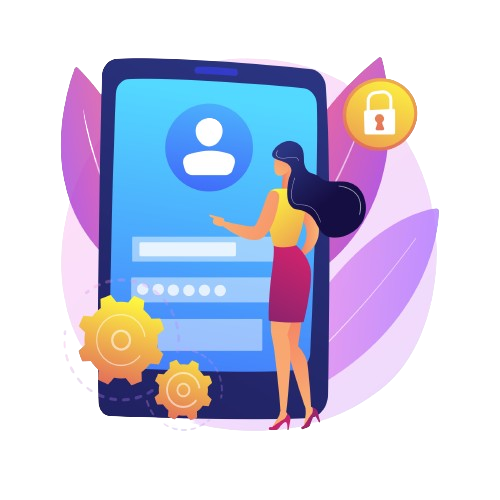
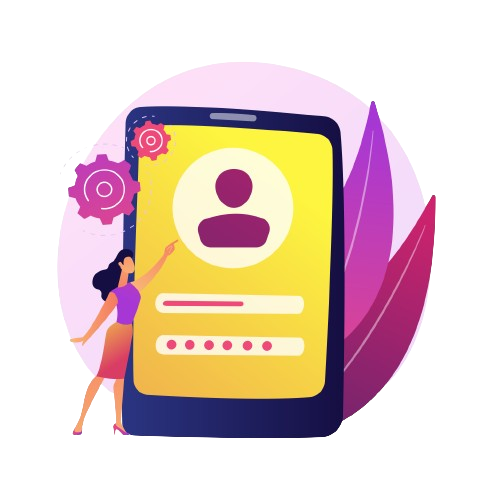
signUp_signIn_done

diff --git a/signUp.html b/signUp.html
@@ -1,22 +1,28 @@
 <!DOCTYPE html>
 <html lang="en">
 <head>
-<!--    <meta name="viewport" content="width=device-width, initial-scale=1.0">-->
+    <!--    <meta name="viewport" content="width=device-width, initial-scale=1.0">-->
     <meta name="viewport" content="width=device-width, initial-scale=1.0, maximum-scale=1.0, user-scalable=no">
 
     <meta charset="UTF-8">
     <title>Title</title>
-    <link rel="stylesheet" href="css/signIn.css">
+    <link rel="stylesheet" href="css/signUp.css">
 </head>
 <body>
 <div class="main">
-    <img src="assets/img_signIn.png" class="login_img">
+    <img src="assets/img_signUp.png" class="login_img">
     <div class="box">
         <form>
-            <h2>Sign In</h2>
+            <h2>Sign Up</h2>
             <div class="inputBox">
                 <input type="text" required="required">
                 <span>Username</span>
+                <i></i>
+            </div>
+
+            <div class="inputBox">
+                <input type="email" required="required">
+                <span>Email</span>
                 <i></i>
             </div>
 
@@ -25,11 +31,11 @@
                 <span>Password</span>
                 <i></i>
             </div>
-            <div class="links">
-                <a href="#">Forgot Password</a>
-                <a  href="signUp.html">Sign Up</a>
+
+            <div class="center-button">
+                <input type="submit" value="Sign Up">
             </div>
-            <input type="submit" value="Sign In">
+
         </form>
     </div>
 </div>

diff --git a/css/signUp.css b/css/signUp.css
@@ -41,6 +41,7 @@ body
     display: flex;
     flex-direction: column;
 
+
 }
 
 
@@ -148,11 +149,13 @@ body
     font-weight: 600;
     width: 100px;
     margin-top: 10px;
+
 }
 
 .box form input[type="submit"]:active
 {
     opacity: 0.8;
+
 }
 
 
@@ -171,8 +174,10 @@ body
     height: auto;
 }
 
-.box form .links a:nth-child(2):hover {
-    color: rgb(97, 133, 168); /* This will change the hover color to red */
+.center-button
+{
+    padding: 20px;
+    text-align: center;
 }
 
 @media (max-width: 768px) {
@@ -186,13 +191,13 @@ body
     .box {
         max-width: 100%;
     }
-        padding: 10px; /* Adjust padding if needed for better layout on mobile */
-    }
-    .box form {
-        padding: 15px; /* Ensure enough padding so form fields are easily tappable */
-    }
-    .box form .inputBox input, .box form .inputBox span {
-        font-size: 16px; /* Maintain at least 16px to prevent zooming */
+    padding: 10px; /* Adjust padding if needed for better layout on mobile */
+}
+.box form {
+    padding: 15px; /* Ensure enough padding so form fields are easily tappable */
+}
+.box form .inputBox input, .box form .inputBox span {
+    font-size: 16px; /* Maintain at least 16px to prevent zooming */
 
 
 }

diff --git a/index.html b/index.html
@@ -27,9 +27,9 @@
             <div>events</div>
         </div>
     </div>
-    <div class="grid-item button1 button-grid"><button type="button" id="signup">Sign Up</button>
+    <div class="grid-item button1 button-grid"><a style="text-decoration: none" href="signUp.html" type="button" id="signup">Sign Up</a>
     </div>
-    <div class="grid-item button2 button-grid"><button type="button" id="signin">Sign In</button>
+    <div class="grid-item button2 button-grid"><a style="text-decoration: none" href="signIn.html" type="button" id="signin">Sign In</a>
     </div>
 </div>
 
